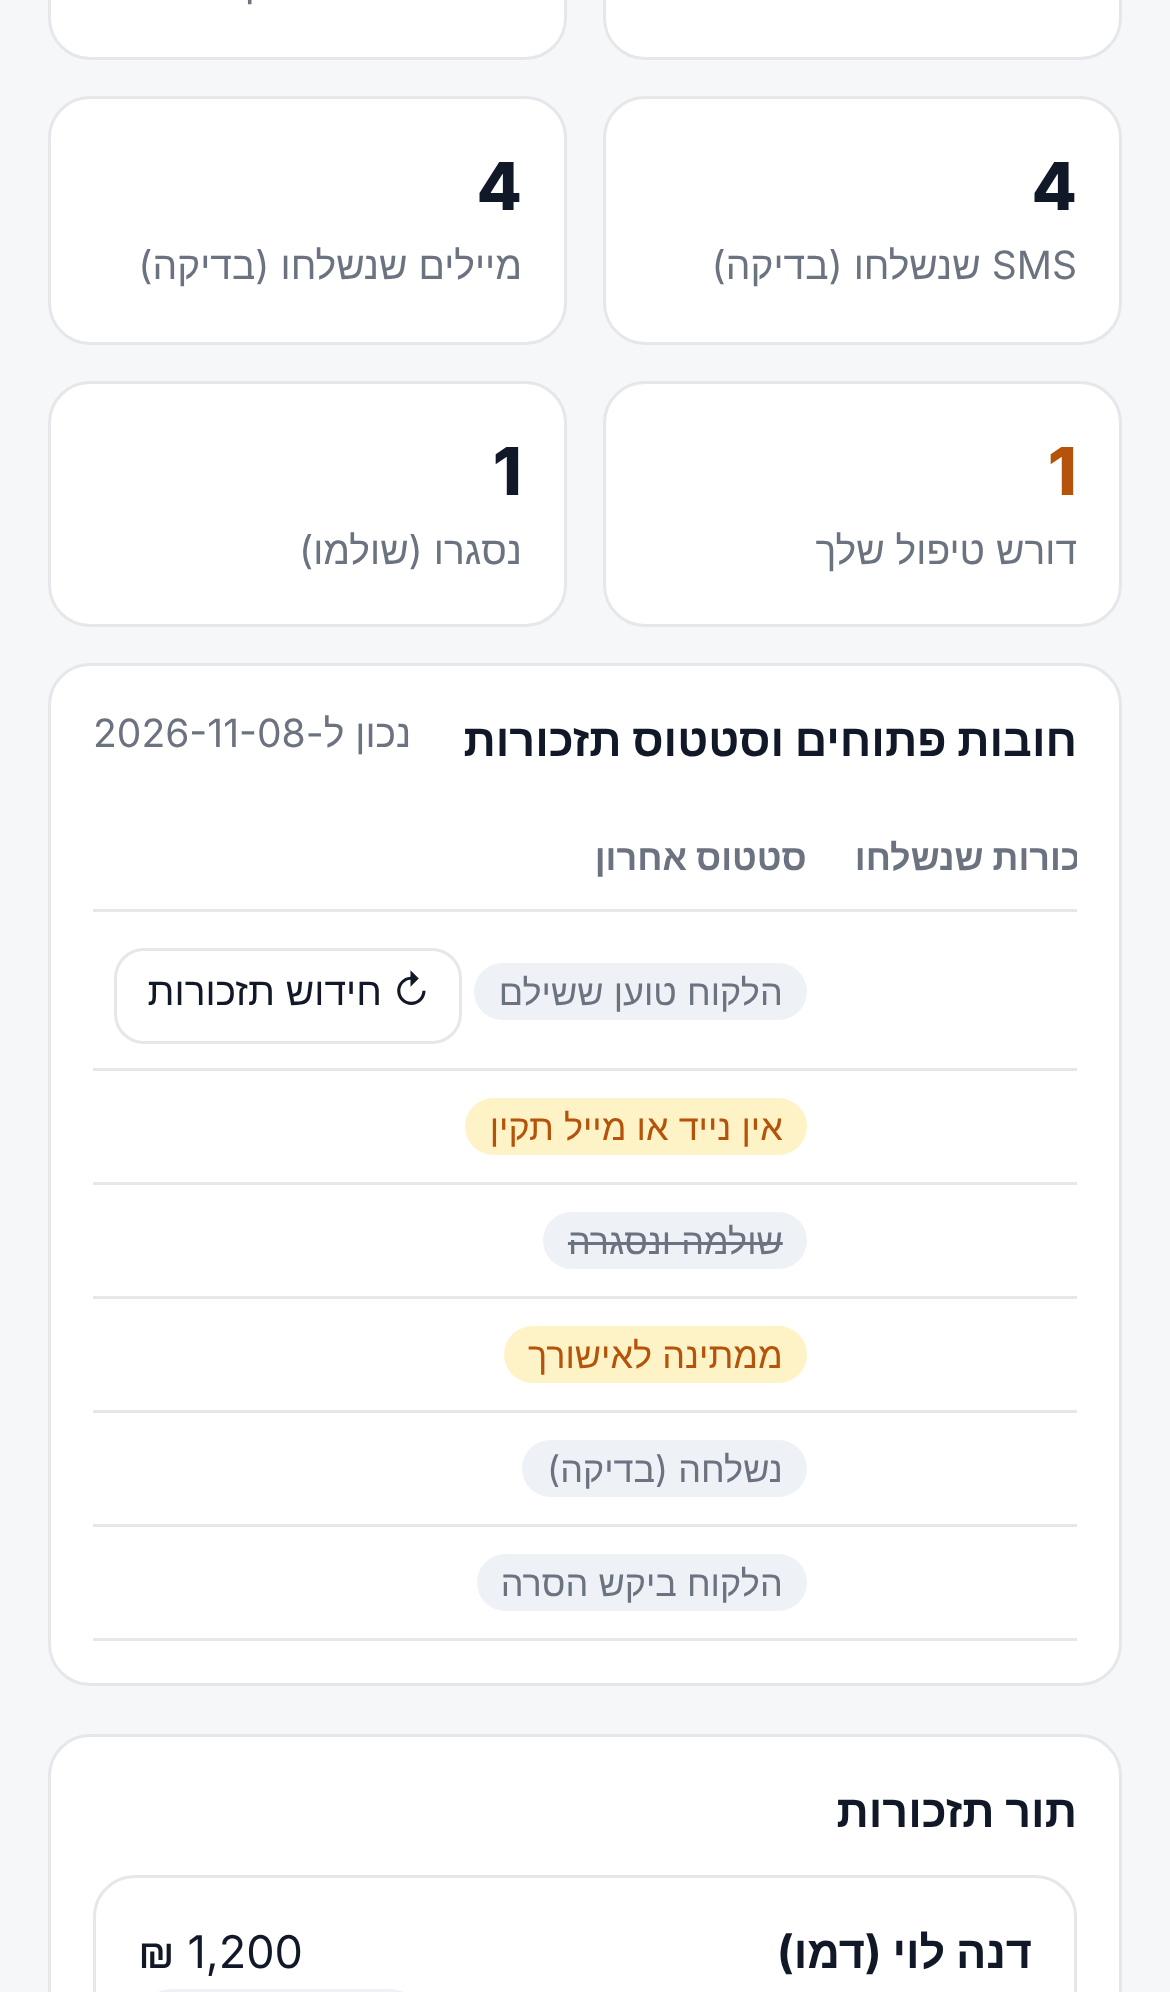
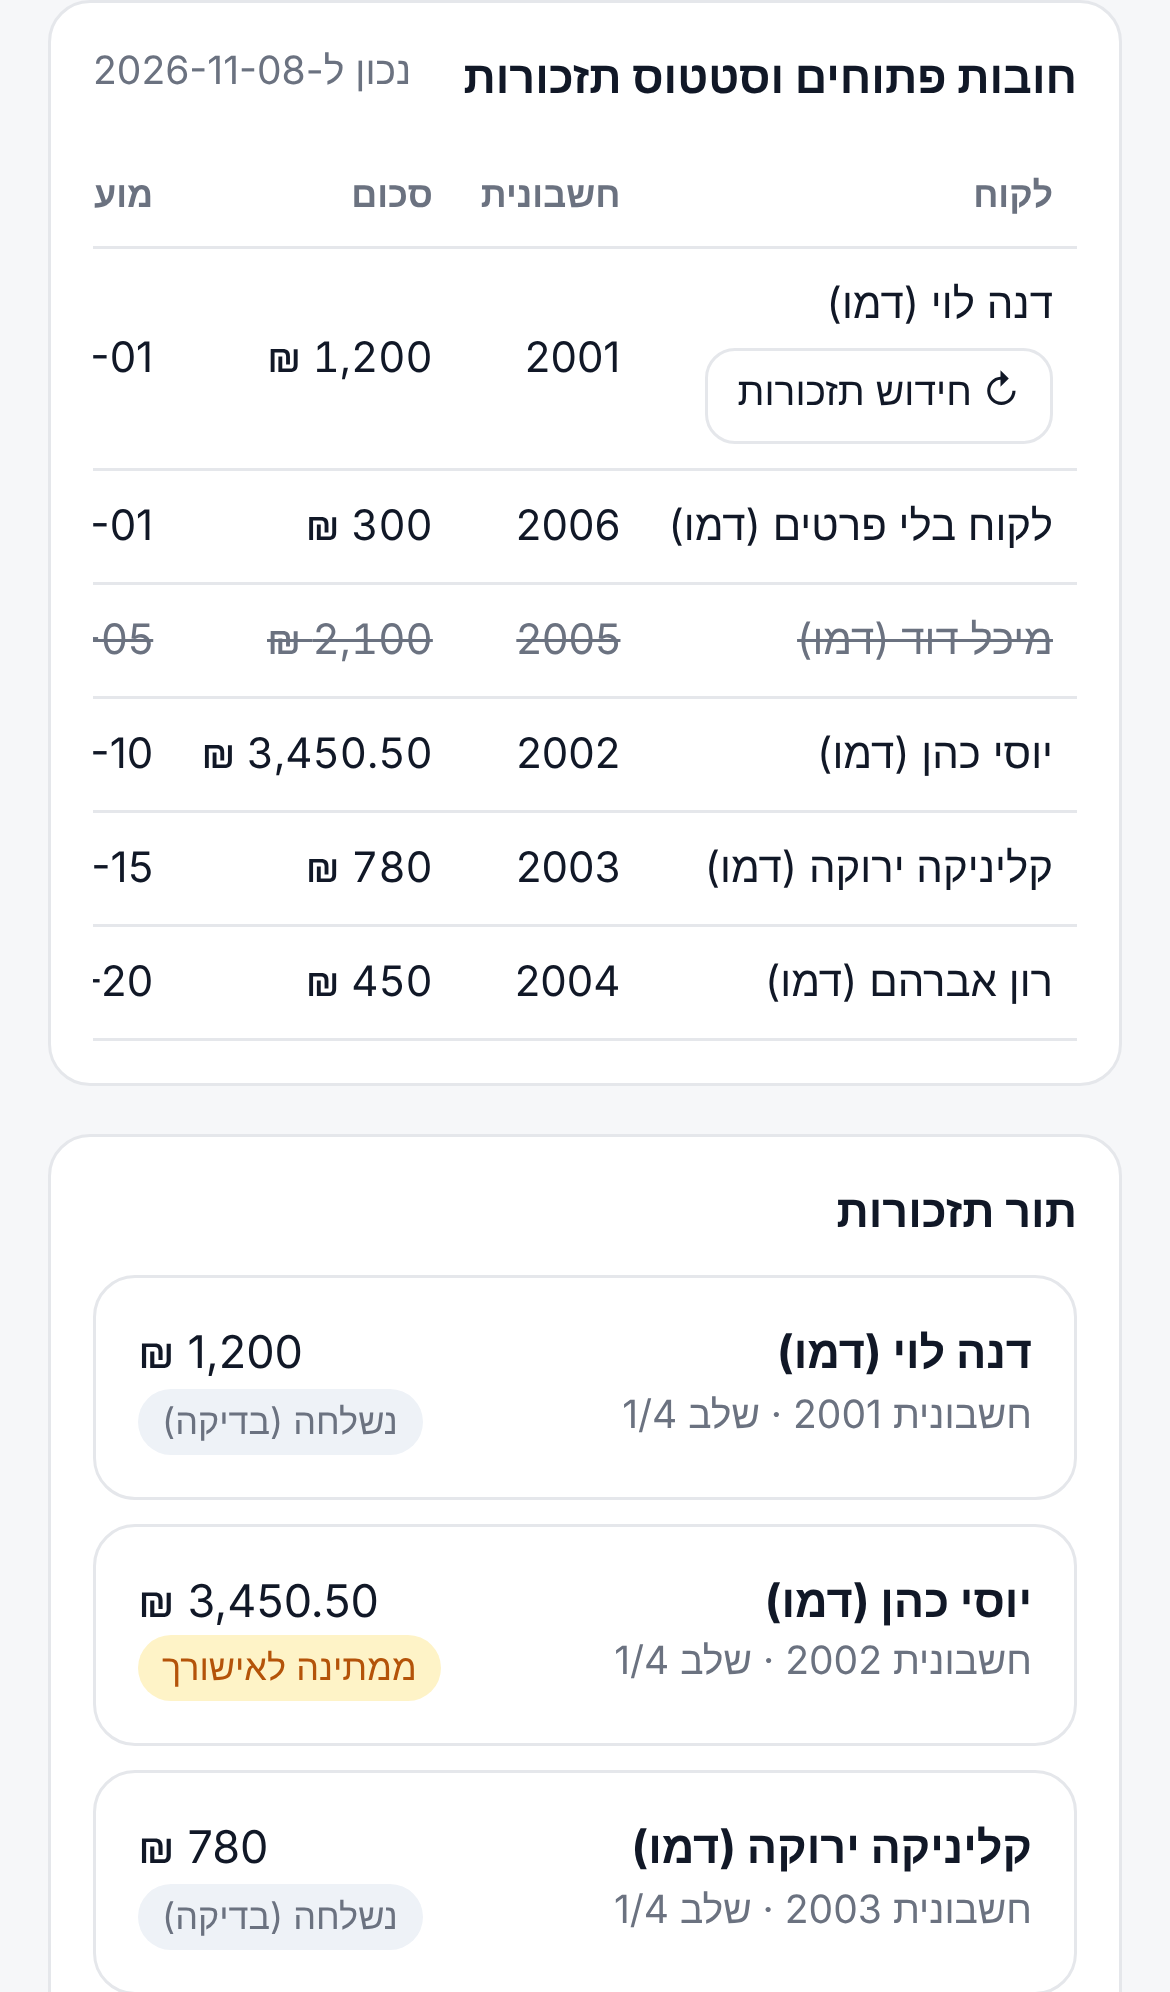
תיקון · גבי: כפתור «חידוש תזכורות» עבר לתא הלקוח — במובייל עמודת הסטטוס מחוץ למסך (נמדד x=-444 ב-iPhone 13; אחרי: x=234, לחיצה כפולה עובדת, 0 שגיאות)
Claude-Session: https://claude.ai/code/session_01DUoepFNLbjcutrURQX4f13

diff --git a/collect-agent/app/ui.html b/collect-agent/app/ui.html
@@ -50,7 +50,7 @@ iframe{width:100%;min-height:360px;border:1px solid var(--line);border-radius:10
 @media (max-width:760px){.kpis{grid-template-columns:repeat(2,1fr)}}
 .kpi .v{font-size:22px;font-weight:800}.kpi .l{color:var(--muted);font-size:13px}
 .kpi.warn .v{color:var(--warn)}.tbl{overflow-x:auto}
-button.resume{min-height:32px;padding:4px 10px;font-size:13px;margin-top:4px}
+button.resume{display:block;white-space:nowrap;min-height:32px;padding:4px 10px;font-size:13px;margin-top:4px}
 table{width:100%;border-collapse:collapse;font-size:14px}
 th,td{text-align:right;padding:8px;border-bottom:1px solid var(--line);white-space:nowrap}
 th{color:var(--muted);font-weight:600;font-size:12px}td.num{font-variant-numeric:tabular-nums}
@@ -102,12 +102,12 @@ async function loadDash(){
   $("#debts").innerHTML=d.invoices.map(x=>{const L=x.last_reminder;
     const st=x.status!=="open"?"שולמה ונסגרה":x.customer_block?(BLOCK[x.customer_block]||x.customer_block)
       :L?(L.block_reason?BLOCK[L.block_reason]||L.block_reason:STATUS[L.status]||L.status):"טרם הוכנה";
-    return `<tr class="${x.status!=="open"?"closed":""}"><td>${esc(x.customer)}</td><td>${esc(x.number)}</td>
+    return `<tr class="${x.status!=="open"?"closed":""}"><td>${esc(x.customer)}${
+    x.status==="open"&&x.paused_reason&&x.customer_block===x.paused_reason
+      ?` <button class="resume" data-cid="${x.customer_id}" title="בדקתם והתשלום לא התקבל? התזכורות ללקוח יחודשו">↻ חידוש תזכורות</button>`:""}</td><td>${esc(x.number)}</td>
     <td class="num">${money(x.amount_agorot)}</td><td>${esc(x.due||"")}</td>
     <td class="${x.days_overdue>0?"late":""}">${x.days_overdue>0?x.days_overdue+" ימים":"—"}</td>
-    <td class="num">${x.reminders_sent}</td><td><span class="chip ${L&&L.status==="pending_approval"?"pending":""}">${esc(st)}</span>${
-    x.status==="open"&&x.paused_reason&&x.customer_block===x.paused_reason
-      ?` <button class="resume" data-cid="${x.customer_id}" title="בדקתם והתשלום לא התקבל? התזכורות ללקוח יחודשו">↻ חידוש תזכורות</button>`:""}</td></tr>`}).join("");
+    <td class="num">${x.reminders_sent}</td><td><span class="chip ${L&&L.status==="pending_approval"?"pending":""}">${esc(st)}</span></td></tr>`}).join("");
 }
 // חידוש ללקוח מושהה (למשל אחרי «שילמתי» שלא אומת): לחיצה ראשונה מחמשת, השנייה מבצעת
 $("#debts").addEventListener("click",async e=>{const b=e.target.closest("button.resume");if(!b)return;
